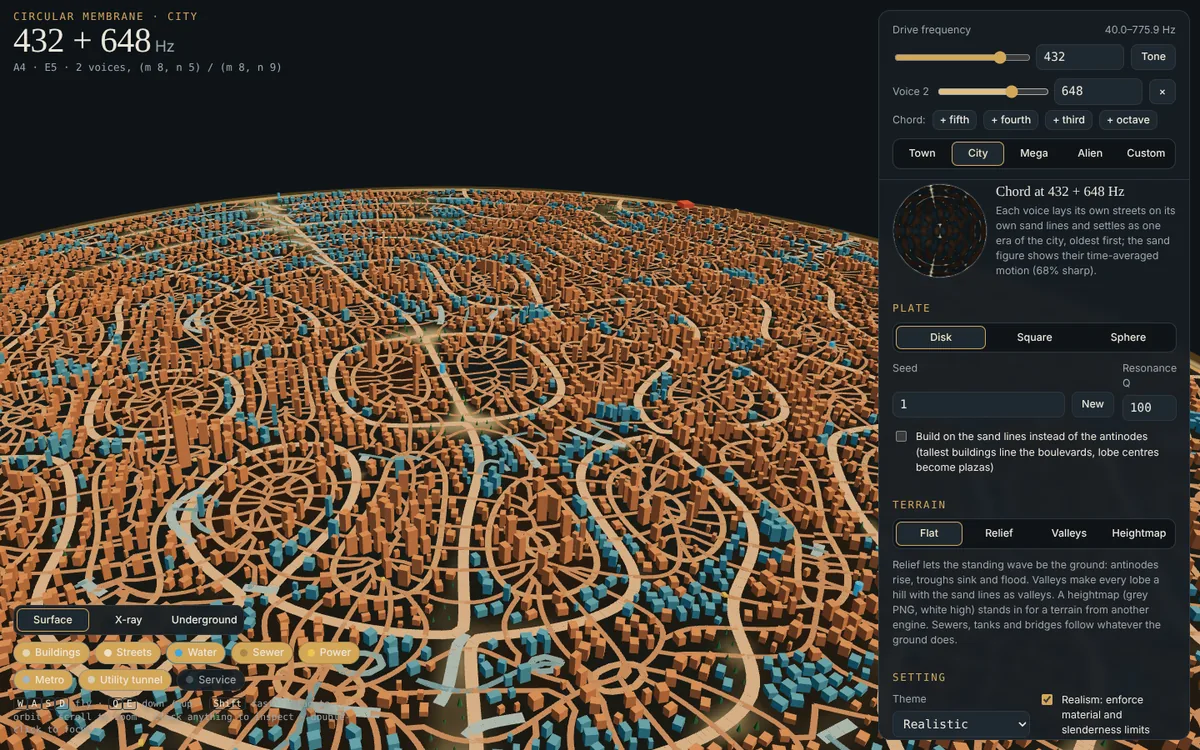
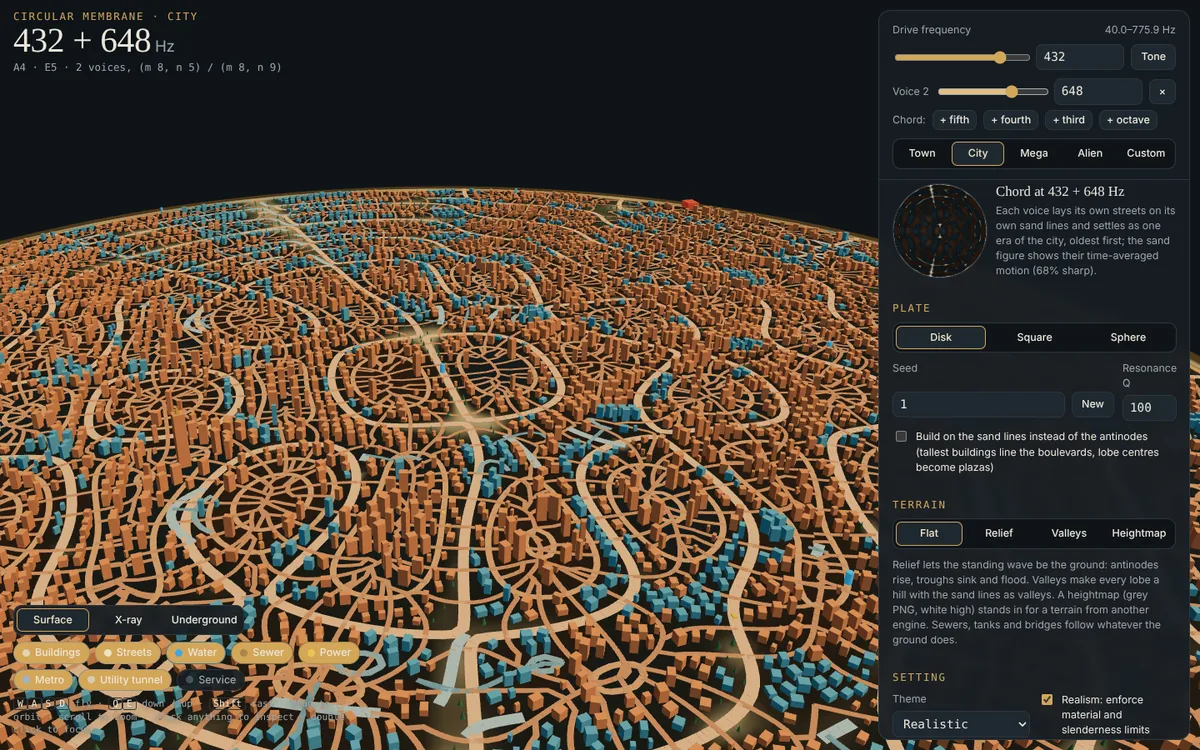
1.4.0: chords shipped. Perimeter by voice, early streets credited to the old city, route-checked growth
Each stretch of the perimeter wall belongs to the voice whose envelope is strongest
there and seeds that voice's spokes, so a faint first voice converges to the loud
voice's city (was +18 % street). Spokes stop at their voice's territory edge. In
the growth keyframes, a later voice's street that an old route opened early is
credited to the voice that laid it (era) and keeps the lines it follows (follows);
the inspector says 'Laid by voice 1, the old city'. A new test recomputes the old
city's routes independently and requires every early street to lie on one, and the
old city to keep to its own streets where it can: the three growth mutants that
survived the last review (no era gate, no route requirement, no era penalty) now
fail. Viewer: first-voice weight clamped and reset, typed voice within 1 % refused.
Docs: wall ownership, early streets, chord density, fragment limits; screenshots.

Claude-Session: https://claude.ai/code/session_01R1bMtx8DEhwoR4h9vfx6pM

diff --git a/src/viewer.html b/src/viewer.html
@@ -496,7 +496,7 @@ function applyProfile(p) {
   if (!THEMES[n.theme]) n.theme = "realistic";
   if (Array.isArray(p.chord) && p.chord.length) {
     const vs = p.chord.map((v) => (typeof v === "object" && v ? { hz: +v.hz, weight: v.weight == null ? 1 : +v.weight } : { hz: +v, weight: 1 }));
-    n.frequency = vs[0].hz; n.weight0 = Number.isFinite(vs[0].weight) && vs[0].weight > 0 ? vs[0].weight : 1; n.voices = vs.slice(1, MAX_VOICES).filter((v) => Number.isFinite(v.hz) && v.hz > 0);
+    n.frequency = vs[0].hz; n.weight0 = Number.isFinite(vs[0].weight) ? Math.min(1, Math.max(0.01, vs[0].weight)) : 1; n.voices = vs.slice(1, MAX_VOICES).filter((v) => Number.isFinite(v.hz) && v.hz > 0);
   }
   if (p.terrain) {
     const t = typeof p.terrain === "string" ? { mode: p.terrain } : p.terrain;
@@ -1193,11 +1193,16 @@ function renderVoices() {
     const row = document.createElement("div"); row.className = "voice";
     const lab = document.createElement("span"); lab.textContent = `Voice ${i + 2}`;
     const hz = document.createElement("input"); hz.type = "number"; hz.min = "1"; hz.step = "0.1"; hz.value = +v.hz.toFixed(1); hz.setAttribute("aria-label", `Voice ${i + 2} frequency in hertz`);
-    hz.addEventListener("change", () => { const x = parseFloat(hz.value); if (x > 0) { params.voices[i].hz = x; regenerate(0); } });
+    hz.addEventListener("change", () => {
+      const x = parseFloat(hz.value); if (!(x > 0)) return;
+      const others = [params.frequency, ...params.voices.filter((_, k) => k !== i).map((o) => o.hz)];
+      if (others.some((f) => Math.abs(f - x) < 0.01 * Math.min(f, x))) { $("status").textContent = `${fmtHz(x)} Hz is within 1 % of a voice already in the chord; pick another frequency.`; hz.value = +params.voices[i].hz.toFixed(1); return; }
+      params.voices[i].hz = x; regenerate(0);
+    });
     const w = document.createElement("input"); w.type = "range"; w.min = "5"; w.max = "100"; w.step = "5"; w.value = Math.round(100 * (v.weight ?? 1)); w.title = `Weight ${Math.round(100 * (v.weight ?? 1))} %`; w.setAttribute("aria-label", `Voice ${i + 2} weight`);
     w.addEventListener("change", () => { params.voices[i].weight = +w.value / 100; regenerate(0); });
     const rm = document.createElement("button"); rm.type = "button"; rm.textContent = "×"; rm.title = "Remove this voice"; rm.setAttribute("aria-label", `Remove voice ${i + 2}`);
-    rm.addEventListener("click", () => { params.voices.splice(i, 1); regenerate(0); });
+    rm.addEventListener("click", () => { params.voices.splice(i, 1); if (!params.voices.length) params.weight0 = 1; regenerate(0); }); // a fresh chord starts at full weight
     row.append(lab, w, hz, rm); return row;
   }));
   for (const b of document.querySelectorAll("#chord .chord-add button")) b.disabled = vs.length >= MAX_VOICES - 1;
@@ -1314,7 +1319,11 @@ function describe(kind, r, L) {
       const grade = planLen > 0 && L.meta.terrain?.mode !== "flat" ? [["Grade", `${fmt(100 * Math.abs(rise) / planLen, 1)} %`]] : [];
       const tr = peopleResult ? roadTraffic(L.roads.indexOf(r)) : null;
       const traffic = tr ? [["Peak flow", `${Math.round(tr.flow)} veh/h both ways`], ["Load", `${Math.round(100 * tr.vc)} % of capacity · ${tr.speed.toFixed(0)} km/h`], ["Lanes", `${tr.lanes} (${tr.lanesNeeded} needed)`]] : [];
-      if (r.era != null && L.meta.chord) traffic.unshift(["Follows", `voice ${r.era + 1}'s sand lines (${fmtHz(L.meta.chord[r.era].hz)} Hz)`]);
+      if (r.era != null && L.meta.chord) {
+        const f = r.follows ?? r.era;
+        traffic.unshift(["Follows", `voice ${f + 1}'s sand lines (${fmtHz(L.meta.chord[f].hz)} Hz)`]);
+        if (f !== r.era) traffic.unshift(["Laid by", `voice ${r.era + 1}${r.era === 0 ? ", the old city" : ""}, before voice ${f + 1} broke ground`]);
+      }
       return { title: `${r.bridge ? "Bridge · " : ""}${r.kind[0].toUpperCase()}${r.kind.slice(1)} street`, color: ROAD[r.kind], pos: r.a, size: r.w * 4, rows: [["Width", `${fmt(r.w)} m`], ["Segment", `${fmt(dist3(r.a, r.b))} m`], ...grade, ...(r.bridge ? [["Deck", `${fmt(L.meta.terrain.waterLevel + L.meta.terrain.freeboard)} m, ${fmt(L.meta.terrain.freeboard)} m above the water`]] : []), ...traffic] };
     }
     case "sewer": return { title: r.forceMain ? `${themeName("sewer", "Sewer")} · force main (pumped)` : themeName("sewer", "Gravity sewer"), color: NET.sewer.color, pos: nodes[r.up].pos, depth: r.upDepth, size: 20, rows: [

diff --git a/src/cymatic-engine.js b/src/cymatic-engine.js
@@ -780,7 +780,11 @@ function buildRoads(p, dom, field, g, opts = {}) {
       }
       pts.push(pts[0]);
     }
-    for (let i = 1; i < pts.length; i++) { const r = { a: pts[i - 1], b: pts[i], w: pr.widths.wall, kind: 'wall' }; if (era != null) r.era = era; roads.push(r); }
+    for (let i = 1; i < pts.length; i++) {
+      // in a chord each stretch of the perimeter belongs to the voice that shapes it there (no overlap band: one wall)
+      if (opts.ownWall && !opts.ownWall(scale3(add(pts[i - 1], pts[i]), 0.5))) continue;
+      const r = { a: pts[i - 1], b: pts[i], w: pr.widths.wall, kind: 'wall' }; if (era != null) r.era = era; roads.push(r);
+    }
   }
   // 4. gradient spokes (minor hyperstreamlines) toward the antinodes, seeded on the nodal lines first,
   //    then on the rings and the wall, so low modes with no interior nodal line still get connected streets
@@ -792,7 +796,7 @@ function buildRoads(p, dom, field, g, opts = {}) {
     let dsep = pr.streetSpacing * 2.5;
     let spokes = [];
     for (let iter = 0; iter < 5; iter++) {
-      spokes = traceSpokes(dom, field, seeds, dsep, pr);
+      spokes = traceSpokes(dom, field, seeds, dsep, pr, keep);
       if (keep) spokes = spokes.filter((r) => kept(r.a, r.b));
       if (era != null) for (const r of spokes) r.era = era;
       const total = base.reduce((s, r) => s + len3(sub(r.b, r.a)), 0) + spokes.reduce((s, r) => s + len3(sub(r.b, r.a)), 0);
@@ -806,7 +810,7 @@ function buildRoads(p, dom, field, g, opts = {}) {
   return { roads, nodalSpacing, ringLevels, spokeSpacing, targetLength, wBoulevard };
 }
 
-function traceSpokes(dom, field, seeds, dsep, pr) {
+function traceSpokes(dom, field, seeds, dsep, pr, keep = null) {
   const out = [];
   const accepted = new Map(), cellA = dsep;
   const key = (P, c) => `${Math.floor(P[0] / c)},${Math.floor(P[1] / c)},${Math.floor(P[2] / c)}`;
@@ -836,6 +840,7 @@ function traceSpokes(dom, field, seeds, dsep, pr) {
         if (dom.kind === 'sphere') Pn = scale3(norm3(Pn), dom.Rs);
         const [un, vn] = dom.toNorm(Pn);
         if (!dom.inside(un * 1.02, vn * 1.02)) break;
+        if (keep && !keep(un, vn)) break; // a chord voice's spoke ends where its territory does
         const sn = field.S(un, vn);
         if (step > 1 && dir * sn < 0) break;
         if (Math.abs(sn) < prev - 1e-4) break;   // passed the crest
@@ -1069,7 +1074,7 @@ export function generateCity(input = {}) {
     // shapes the plate (its territory, plus a narrow overlap band so the networks cross and join); its street
     // budget is its share of the plate, so a faint voice lays little and a chord tends to its loudest voice
     const territory = voiceTerritories(voices, grid);
-    const parts = voices.map((v, i) => buildRoads(p, dom, v.field, v.grid, { share: territory[i], era: i, wall: i === 0, keep: (u, vv) => inTerritory(voices, i, u, vv) }));
+    const parts = voices.map((v, i) => buildRoads(p, dom, v.field, v.grid, { share: territory[i], era: i, wall: true, ownWall: (P) => { const [u, vv] = dom.toNorm(P); return dominantEnvelope(voices, u, vv) === i; }, keep: (u, vv) => inTerritory(voices, i, u, vv) }));
     rd = { ...parts[0], roads: dropFragments(parts.flatMap((x) => x.roads), FRAGMENT_MIN), targetLength: parts.reduce((s, x) => s + x.targetLength, 0) };
     rd.nodalSpacing = Math.min(...parts.map((x) => x.nodalSpacing));
   }

diff --git a/src/simulation.js b/src/simulation.js
@@ -227,7 +227,16 @@ export function simulate(layout, opts = {}) {
       const b = layout.buildings[h.building];
       buildings.push({ ...b, floors: g.floors, h: b.shape === 'dome' ? Math.min(g.h, 0.6 * Math.min(b.w, b.d)) : g.h, built: h.built, rebuilt: g.year, source: h.building });
     }
-    const roads = layout.roads.filter((_, i) => roadYear[i] <= year);
+    // a later voice's street that an older route opened early was built by the voice of its day: credit it to that
+    // voice, and keep whose sand lines it follows
+    const builtBy = (y) => { let e = 0; eraStart.forEach((ys, k) => { if (ys != null && ys <= y) e = Math.max(e, k); }); return e; };
+    const roads = [];
+    layout.roads.forEach((rd, i) => {
+      if (roadYear[i] > year) return;
+      const e = chord ? rd.era ?? 0 : 0;
+      if (e > 0 && roadYear[i] < (eraStart[e] ?? Infinity)) roads.push({ ...rd, era: builtBy(roadYear[i]), follows: e });
+      else roads.push(rd);
+    });
     const trees = layout.trees;
     const sub = { meta: { ...meta, year }, roads, buildings, trees, stats: { ...layout.stats }, checks: [] };
     const inf = buildInfrastructure(sub);

diff --git a/README.md b/README.md
@@ -69,7 +69,7 @@ Captured headless from the page in this repository (`docs/screenshots/`).
 | ![Fantasy theme](docs/screenshots/13-fantasy-theme.webp) **High-fantasy theme.** A custom settlement in living wood with realism off: the engine builds what the pattern asks for and the checks say what would stand. | ![Hive theme, X-ray](docs/screenshots/14-hive-xray.webp) **Alien hive, X-ray.** Same engineering, different names and colours. |
 | ![Sphere relief](docs/screenshots/20-terrain-sphere.webp) **Relief on a sphere.** Radial terrain, with seas in the troughs. | ![Traffic](docs/screenshots/21-traffic.webp) **Peak-hour traffic.** Streets coloured by volume over capacity after the commute is assigned; this plan has street to spare. |
 | ![Land value](docs/screenshots/22-land-value.webp) **Land value.** Accessibility to jobs, amplitude and the metro, brightest where the market would pay most. | ![Market zoning](docs/screenshots/23-market-zoning.webp) **Market zoning vs. the wave's.** Orange where the land market would put the core; red-tinted lots disagree with the zoning the pattern assigned. |
-| ![Chord eras](docs/screenshots/24-chord-eras.webp) **A chord, 432 + 648 Hz.** Orange streets and lots belong to the first voice, blue to the fifth above it (weight 0.7); each voice lays its streets where it moves the plate most. | ![Old city](docs/screenshots/25-chord-old-city.webp) **The old city.** Early in the growth simulation only the first voice stands; the second breaks ground once the first has settled. |
+| ![Chord eras](docs/screenshots/24-chord-eras.webp) **A chord, 432 + 648 Hz.** Orange streets and lots belong to the first voice, blue to the fifth above it (weight 0.7); each voice lays its streets where it moves the plate most. | ![Old city](docs/screenshots/25-chord-old-city.webp) **The old city.** Early in the growth simulation only the first voice's lots stand, joined by streets it laid along the second voice's lines; the second voice breaks ground once the first has settled. |
 | ![Phone layout](docs/screenshots/15-phone.webp) **Phone.** The panel becomes a sheet; everything still works at 390 px. | |
 
 ## Quick start
@@ -174,7 +174,7 @@ Sources and tunables: `docs/research-notes/people_traffic.md`. Not modelled: non
 `chord: [432, 648]` or `chord: [{ hz: 432, weight: 1 }, { hz: 576, weight: 0.6 }]`, up to three voices with weights in 0.01–1 (only their ratios matter); voices within 1 % of each other are refused. The first voice names the city and `frequency` is ignored when a chord is given. A chord of one is the plain frequency byte for byte.
 
 - **Physics.** A plate is linear, so its response to several tones is the sum of its responses to each. For tones that do not share a period, no fixed shape exists; what is stationary is the time-averaged motion, whose mean square adds: the engine's amplitude is `√Σ (w·A_v)²` with each voice normalised to its own peak. The signed field keeps the sign of the in-phase snapshot `Σ w·S_v` (clipped to that envelope) for districts and relief. Sand on a real two-tone plate settles only where both voices are quiet, so the engine does not build on the composite's nodal set; it reads the chord as eras.
-- **Eras.** Each voice lays its own nodal boulevards, rings and spokes in its **territory**, where its weighted envelope (its local peak amplitude) is within 15 % of the strongest voice's, with a street budget in proportion to its share of the plate; a faint voice lays little and a chord paves about as much as its loudest voice alone. The first voice closes the perimeter; disconnected fragments under 100 m left at territory edges are dropped. A lot belongs to the voice that moves the plate most under it (`building.era`); a street's era is whose sand lines it follows (`road.era`, `stats.eras`). In `simulate()` the first voice is the old city and settles completely before the next voice breaks ground (`eraStarts`, event notes); the old city's routes between its separated lobes run along a later voice's lines and open early, every other later street waits for its voice.
+- **Eras.** Each voice lays its own nodal boulevards, rings and spokes in its **territory**, where its weighted envelope (its local peak amplitude) is within 15 % of the strongest voice's, with a street budget in proportion to its share of the plate; a faint voice (first or later) lays little and a chord paves about as much as its loudest voice alone. Each stretch of the perimeter belongs to the voice that shapes it; disconnected fragments under 100 m left at territory edges are dropped. Several voices leave the plate few still places, so a chord city has less green and more people than either voice alone. A lot belongs to the voice that moves the plate most under it (`building.era`); a street's era is whose sand lines it follows (`road.era`, `stats.eras`). In `simulate()` the first voice is the old city and settles completely before the next voice breaks ground (`eraStarts`, event notes). Its routes prefer its own streets; between its separated lobes they must run along a later voice's lines, and those streets open with the route, credited in the keyframes to the old city that laid them (`era`) with the lines they follow (`follows`). Every other later street waits for its voice.
 - **Megastructures.** Every voice's boulevards are open canyons through an arcology, so a chord leaves about half the cells of its first voice alone; the checks still pass.
 - **Viewer.** "+ fifth / fourth / third / octave" add a voice (folded down an octave when the plate's range cannot reach it, refused when it lands on an existing voice); each voice has a weight slider and a frequency field; the tone plays the chord; the modes list shows each voice; "Colour the city by chord voice" paints streets and lots by era; profiles carry `chord`.
 
@@ -286,7 +286,7 @@ The engine was built to be one stage in a larger pipeline:
 
 ## Verification
 
-- `npm test` runs 107 tests in about six minutes: Bessel values and zeros against scipy, spherical-harmonic orthonormality, mode norms by numerical integration, the square-plate corner convention, drive-point coupling, analytic nodal sets for boulevards, brute-force road-clearance and overlap checks on sampled cities, structural limits across every plate × preset, gravity scaling, OBJ winding and index validity, zip validity (checked with Python's `zipfile`), determinism, input validation; and for the underground, sewer slope/depth/flow conservation, force mains, looped mains and trunk flows, substation ratings and feeder accumulation, junctions at every crossing, brute-force tunnel-clearance over every building, connector lengths, and timing; and for the simulation, profile means and shapes, Hazen-Williams and voltage-drop hand-worked cases, strict head and voltage loss along every loaded main and feeder, Manning partial flow at the design peak, metro conservation and AM/PM reversal link by link, growth determinism and nesting, structural caps through densification, keyframe stats recomputed, impact sets, and agreement between the N-1 tiles and the failure model; and for terrain, flat-mode byte identity, ground and freeboard rules for every building and street, bridges that really cross water, one height per plan point, the reported grade against a recompute, arcology faces to open ground by brute force, sewer inverts against the heightfield, plant and tank siting, static heads within limits with valves exercised on 40 m of relief, elevation heads in the flow model, and keyframes that keep it all; and for people, trip conservation, vehicle-kilometres against car trips times their paths, flow only on shortest-path trees, BPR and capacity by hand, response to congestion and averaging that is really an average, land value monotone in its inputs and rank-correlated with access, zoning as value bands, the earned ridership carried by the flow model, determinism, and empty cities; and for chords, byte identity of a chord of one, duplicate voices refused, the composite field against the single-voice previews point by point on every plate, each voice's boulevards on its own nodal set and rings on its contours, streets only in their voice's territory, no short disconnected fragments, a faint voice converging to the single-voice city and the street share rising with weight, brute-force clearance and oriented-rectangle overlap on chord cities (sphere included), lot eras by dominant voice, era-ordered growth with later-voice streets confined to the old city's routes, terrain and the commute on chords, determinism and the underground.
+- `npm test` runs 107 tests in about six minutes: Bessel values and zeros against scipy, spherical-harmonic orthonormality, mode norms by numerical integration, the square-plate corner convention, drive-point coupling, analytic nodal sets for boulevards, brute-force road-clearance and overlap checks on sampled cities, structural limits across every plate × preset, gravity scaling, OBJ winding and index validity, zip validity (checked with Python's `zipfile`), determinism, input validation; and for the underground, sewer slope/depth/flow conservation, force mains, looped mains and trunk flows, substation ratings and feeder accumulation, junctions at every crossing, brute-force tunnel-clearance over every building, connector lengths, and timing; and for the simulation, profile means and shapes, Hazen-Williams and voltage-drop hand-worked cases, strict head and voltage loss along every loaded main and feeder, Manning partial flow at the design peak, metro conservation and AM/PM reversal link by link, growth determinism and nesting, structural caps through densification, keyframe stats recomputed, impact sets, and agreement between the N-1 tiles and the failure model; and for terrain, flat-mode byte identity, ground and freeboard rules for every building and street, bridges that really cross water, one height per plan point, the reported grade against a recompute, arcology faces to open ground by brute force, sewer inverts against the heightfield, plant and tank siting, static heads within limits with valves exercised on 40 m of relief, elevation heads in the flow model, and keyframes that keep it all; and for people, trip conservation, vehicle-kilometres against car trips times their paths, flow only on shortest-path trees, BPR and capacity by hand, response to congestion and averaging that is really an average, land value monotone in its inputs and rank-correlated with access, zoning as value bands, the earned ridership carried by the flow model, determinism, and empty cities; and for chords, byte identity of a chord of one, duplicate voices refused, the composite field against the single-voice previews point by point on every plate, each voice's boulevards on its own nodal set and rings on its contours, streets only in their voice's territory, no short disconnected fragments, a faint voice converging to the single-voice city and the street share rising with weight, brute-force clearance and oriented-rectangle overlap on chord cities (sphere included), lot eras by dominant voice, era-ordered growth with early later-voice streets credited to the old city and each one on a route recomputed independently (mutation-tested), terrain and the commute on chords, determinism and the underground.
 - The page is rendered headless (Playwright + Chromium) at desktop and phone widths through every view mode, with picking, fly controls and the section cut exercised.
 - Six independent review passes (city layer, underground, simulation, terrain, people, chords) each found real defects that were then fixed and re-verified: the square-plate coordinate convention, modal normalisation, inverted OBJ winding, tunnels missing foundations on long edges, streets crossing without junctions, undersized trunk mains, backup power lines sharing trenches with the lines they backed up, a slope cap reading the circle's scale wrong, valves starving the runs that climbed below them, 4 m steps at bridge abutments, and three tests that could not fail (now they can: mutation-tested); in the people model, destination sampling noise masquerading as equilibrium, a metro hand-off on the wrong base (+82 % ridership on the megastructure), and a sphere road-matching bug; in chords, a street budget that ignored the weights (a near-silent voice still laid a full network, +51 % street), duplicate voices doubling streets, and a ground preview that ignored all but the first voice.
 

diff --git a/docs/research-notes/chords.md b/docs/research-notes/chords.md
@@ -13,10 +13,11 @@ What happens on a plate driven by two or three tones at once, and how the engine
 Since the sand of a two-tone plate would settle only on the intersection points, a city built literally on it would have no boulevards. The engine instead reads a chord as a **sequence of eras**, which is what the roadmap asked for and what cities are.
 
 - **Territories.** Each voice lays its own streets on its own nodal lines (boulevards), amplitude contours (rings) and gradients (spokes), but only in its **territory**: where its weighted *envelope* is within 15 % of the strongest voice's. The envelope is the local maximum of the voice's amplitude within half its own nodal spacing, i.e. how strongly the voice vibrates in that neighbourhood; a voice's sand lines, where its own amplitude is zero, still belong to it wherever the lobes on either side are its. The 15 % band lets neighbouring voices' networks overlap slightly, so they cross and join.
-- **Budget.** A voice's spoke budget is the UN-Habitat street length times its share of the plate, so a faint voice lays little: a chord with a second voice at weight 0.05 is the single-voice city within 1 % (566 km of street either way). A chord paves about as much as its loudest voice alone, not the sum of its voices.
+- **Budget.** A voice's spoke budget is the UN-Habitat street length times its share of the plate, so a faint voice lays little: a chord with a voice at weight 0.01–0.1, first or second, is the loud voice's city within 1 %. A chord paves about as much as its loudest voice alone, not the sum of its voices. Each stretch of the perimeter wall belongs to the voice that shapes it there, and seeds that voice's spokes.
+- **Density.** The time-averaged amplitude of several voices leaves few still places, so a chord city has less green and more people than either voice alone (about +40–50 % residents on a two-voice city, green share falling from about 11 % to 2 %). That is the physics of the amplitude, not a bug.
 - **Fragments.** Clipping a voice's lines at its territory's edge can leave short pieces touching no other street; disconnected fragments under 100 m are dropped.
 - **Lots.** A lot belongs to the voice that moves the plate most right under it (`building.era`, pointwise `w·A`). The composite amplitude sets zoning and heights, so lots where several voices move the plate rise highest.
-- **Growth.** The first voice is the old city: `simulate()` settles all its lots before the second voice breaks ground. The old city's routes prefer its own streets; where its lobes are separated by another voice's territory, the routes between them run along that voice's sand lines, and those street segments open with the route. Every other later-voice street waits for its voice. A street's era therefore means whose sand lines it follows, not when it was paved.
+- **Growth.** The first voice is the old city: `simulate()` settles all its lots before the second voice breaks ground. The old city's routes prefer its own streets (later voices' streets count five times their length); where its lobes are separated by another voice's territory, the routes between them must run along that voice's sand lines, and those street segments open with the route. In the keyframes such a street is credited to the voice that laid it (`era`, the old city) and keeps whose lines it follows (`follows`); every other later-voice street waits for its voice. Clipping to territories cuts the old city into lobes, so these joining streets are a large part of its network (a third to a half of voice 2's eventual street length exists before voice 2 breaks ground).
 
 Musical intervals: the "+ fifth / fourth / third / octave" buttons multiply the first voice by 3/2, 4/3, 5/4 and 2, folding down an octave when the plate's modelled range cannot reach the result, and refusing an interval that lands on a voice already in the chord.
 
@@ -28,5 +29,6 @@ Musical intervals: the "+ fifth / fourth / third / octave" buttons multiply the 
 - The composite amplitude is the plate's time-averaged motion; the composite sign is a snapshot. Neither is "the pattern you would photograph" for incommensurate tones — that would be the intersection points — and the engine says so in the sand-figure caption.
 - Eras are a settlement order, not a history of demolition: era-2 streets that cross era-1 lots simply take their lots away at generation time, as the lot grid fits around all roads at once.
 - Weights set the territories and the amplitude mix; only their ratios matter, and they are not sound-pressure levels.
+- Fragment removal joins streets within 1 m, the street graph is stricter at crossings, so a few pieces under 100 m can still need a short service connector; larger islands of a voice's streets are likewise joined by connectors.
 
 Sources: Waller, M. D. *Chladni Figures: A Study in Symmetry* (1961); Rossing & Fletcher, *Principles of Vibration and Sound*, ch. 3 (linear superposition, modal response); Rayleigh, *The Theory of Sound*, §§ 190–200 (plates and membranes).

diff --git a/CHANGELOG.md b/CHANGELOG.md
@@ -2,9 +2,9 @@
 
 ## 1.4.0 — 2026-10-17
 
-- Chords: `chord: [hz | {hz, weight}]` with up to three voices (weights 0.01–1, voices at least 1 % apart). Each voice is driven and normalised on its own; the composite amplitude is the time-averaged motion √Σ(w·A)², the signed field keeps the in-phase sign clipped to that envelope. Each voice lays its own streets as one era in its territory (where its weighted envelope is within 15 % of the strongest), with a budget in proportion to its share of the plate; short disconnected fragments are dropped; lots belong to the voice that moves the plate most; growth settles the first voice before the next breaks ground (`eraStarts`), with the old city's routes preferring its own streets. A chord of one is the plain frequency byte for byte.
+- Chords: `chord: [hz | {hz, weight}]` with up to three voices (weights 0.01–1, voices at least 1 % apart). Each voice is driven and normalised on its own; the composite amplitude is the time-averaged motion √Σ(w·A)², the signed field keeps the in-phase sign clipped to that envelope. Each voice lays its own streets as one era in its territory (where its weighted envelope is within 15 % of the strongest), with a budget in proportion to its share of the plate; each stretch of the perimeter belongs to the voice that shapes it; short disconnected fragments are dropped; lots belong to the voice that moves the plate most; growth settles the first voice before the next breaks ground (`eraStarts`), with the old city's routes preferring its own streets and the streets it lays along a later voice's lines credited to it in the keyframes (`follows`). A chord of one is the plain frequency byte for byte.
 - Street graph edges keep `era` for chord streets; `toOBJ` names the chord in its header.
-- Viewer: interval buttons, voice rows with weights, chord HUD, chord tone, per-voice modes, paint by era (offered only for chords), inspector rows ("Built by", "Follows"); the ground and plate colours follow the whole chord; profiles carry `chord` with every weight; export names carry the chord.
+- Viewer: interval buttons, voice rows with weights, chord HUD, chord tone, per-voice modes, paint by era (offered only for chords), inspector rows ("Built by", "Follows", "Laid by"); a typed voice within 1 % of another is refused in the page; the ground and plate colours follow the whole chord; profiles carry `chord` with every weight; export names carry the chord.
 - Tests: 107 (9 for chords); sixth independent review with fixes and mutation testing. Research note `docs/research-notes/chords.md`.
 
 ## 1.3.0 — 2026-10-16
